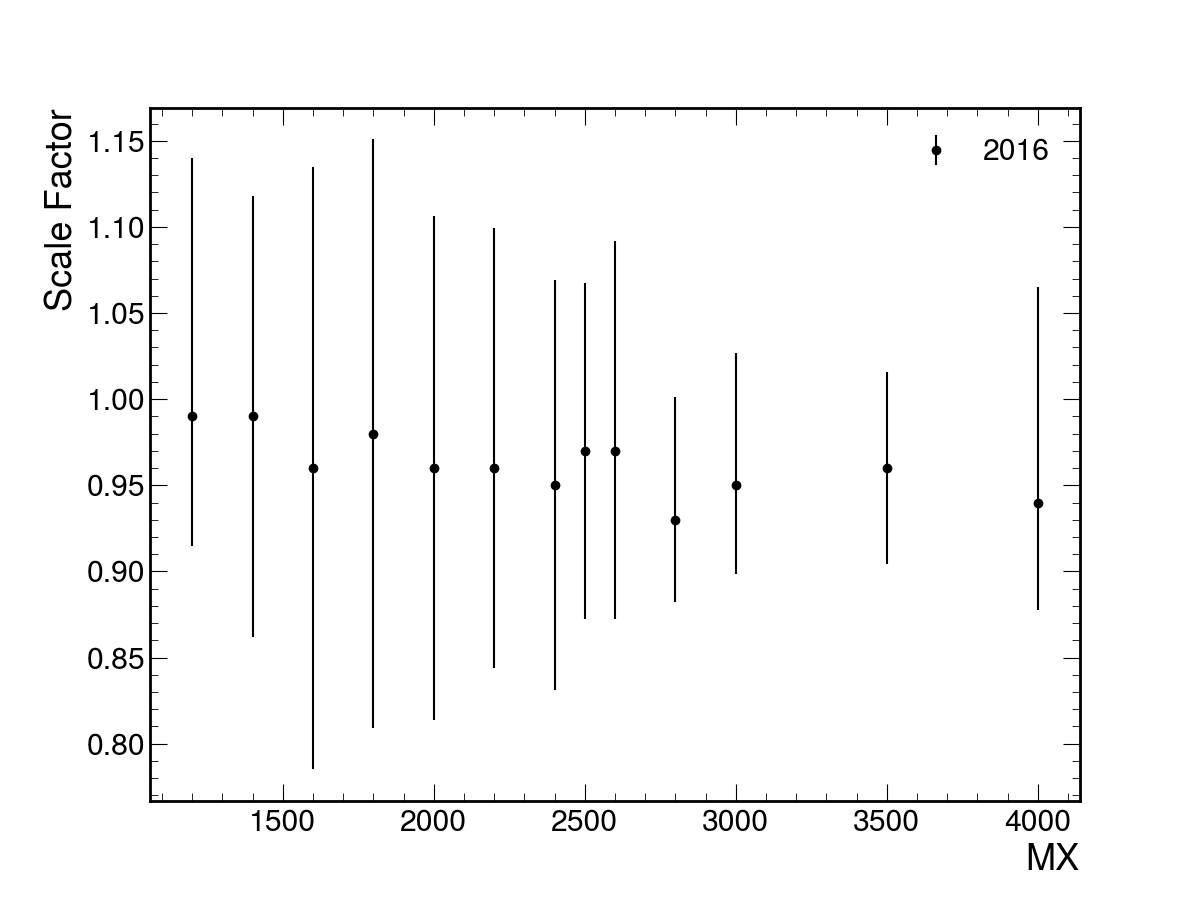
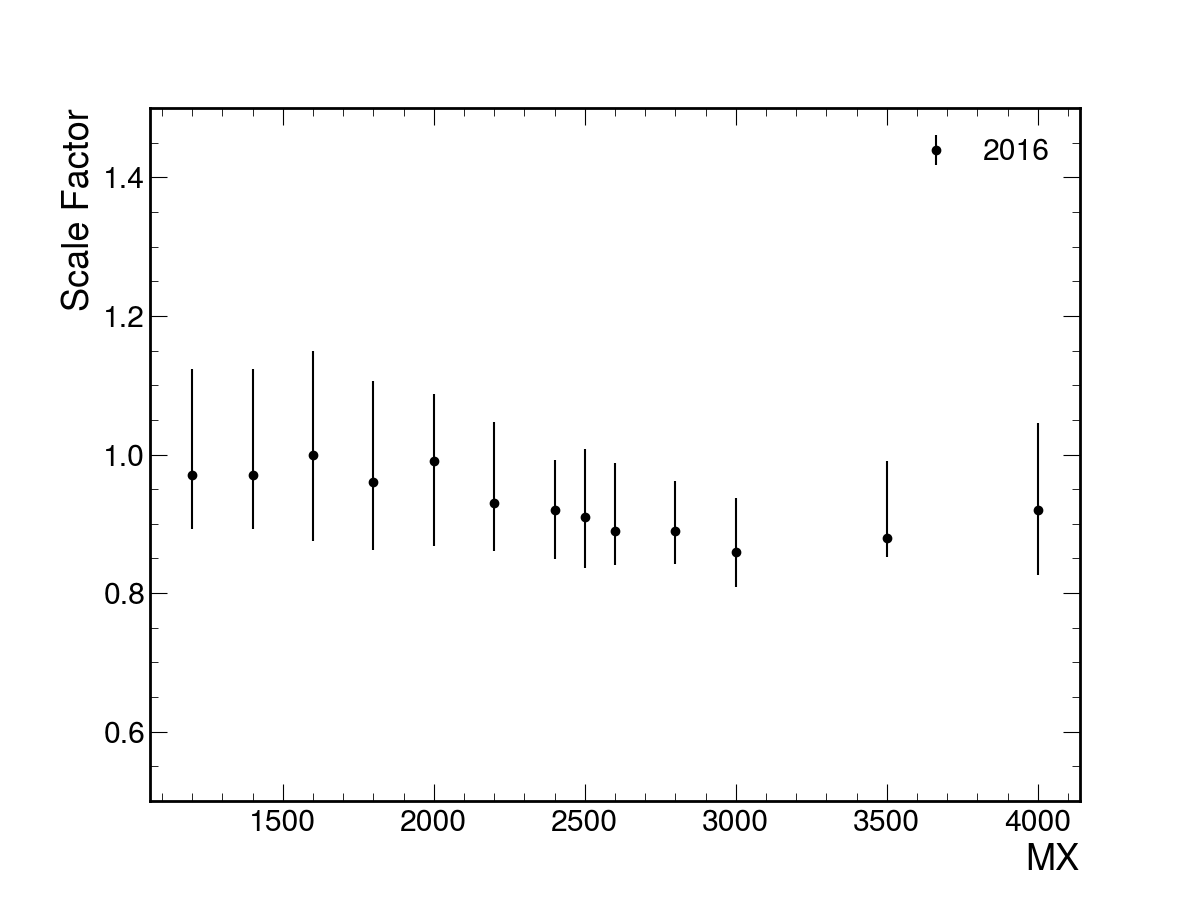
unify axis range for SFs

diff --git a/SF_Plotting/Plot_SFs.py b/SF_Plotting/Plot_SFs.py
@@ -16,6 +16,7 @@ def plot(years,Mxs,SFs,Uncs_up,Uncs_down,colors):
     
         yTitle='Scale Factor'
         xTitle='MX'
+        plt.ylim(ymin=0.5, ymax=1.5)
 
         plt.xlabel(xTitle, horizontalalignment='right', x=1.0)
         plt.ylabel(yTitle,horizontalalignment='right', y=1.0)
